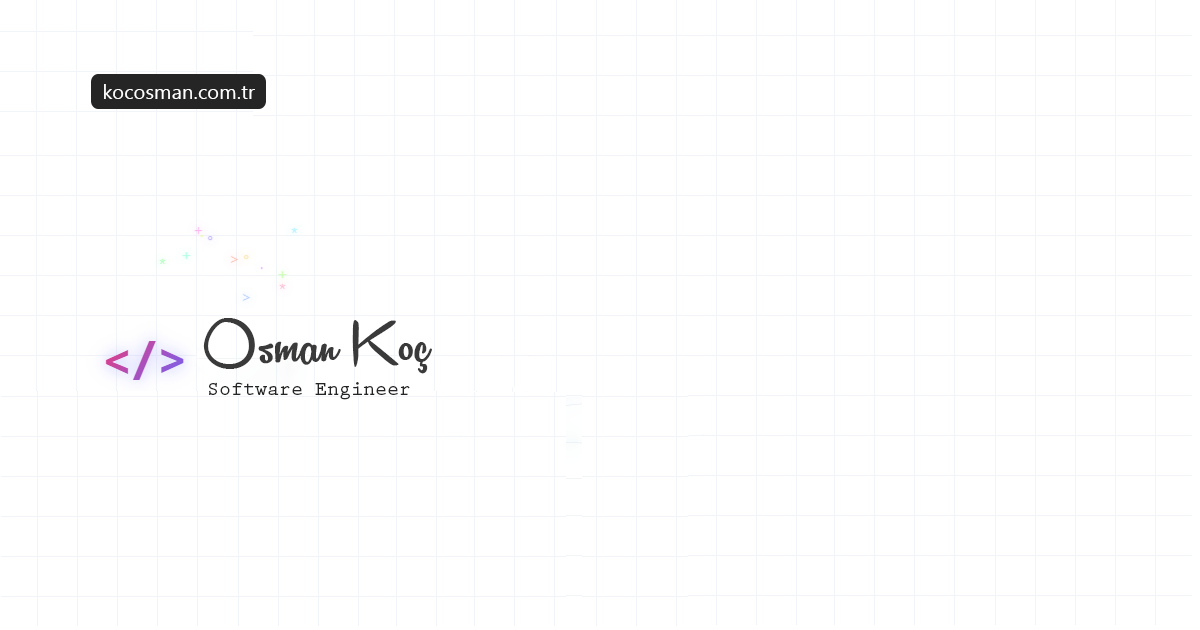
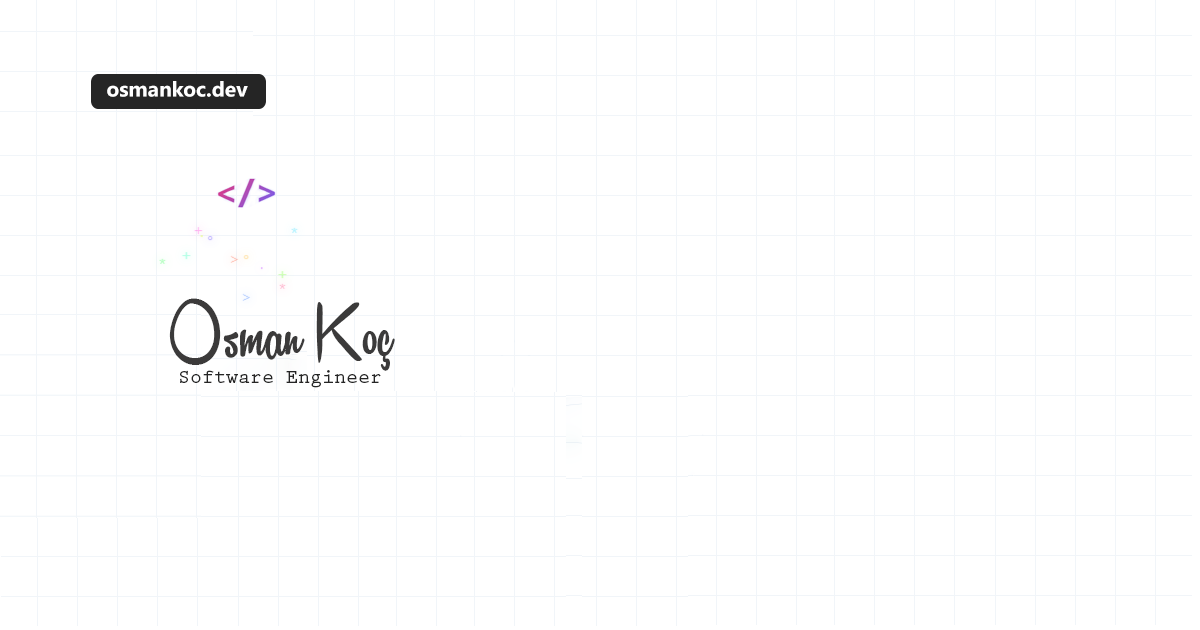
feat: change site url & modify shared-metadata and og-image & upgrade version

Changed region(s): [[0.0925, 0.4524, 0.37, 0.6333], [0.0925, 0.1206, 0.2158, 0.181], [0.185, 0.2714, 0.2467, 0.3317]]

diff --git a/lib/shared-metadata.ts b/lib/shared-metadata.ts
@@ -1,18 +1,23 @@
+const _title = 'Osman KOÇ - Software Engineer | Portfolio & Blog';
+const _description = 'I develop web-based applications professionally. I also develop mobile applications and open source software for hobby purposes. You can review what is published on GitHub, Google Play Store and AppStore.';
+const _keywords = ['Osman KOÇ', 'Osman Koc', 'osmankoc', 'osmkoc', 'kocosman', 'koc osman', 'dev', 'developer', 'kocosm', 'blog', 'medium'];
+const _url = 'https://osmankoc.dev';
+
 export const sharedMetadata = {
-    title: 'Osman Koç - Software Engineer | Portfolio & Blog',
-    description: 'I develop web-based corporate applications professionally and I also work on developing web and mobile applications and projects personally. You can use the applications published on Google Play Store and AppStore.',
-    keywords: ['Osman Koç', 'Osman Koc', 'osmkoc', 'kocosman', 'koc osman', 'developer', 'kocosm', 'blog', 'personal website'],
+    title: _title,
+    description: _description,
+    keywords: _keywords,
     openGraph: {
-      title: 'Osman Koç',
-      description: 'Software Engineer, and writer, based in Turkey',
-      url: 'https://kocosman.com.tr',
-      siteName: 'Osman Koç - Software Engineer | Portfolio & Blog',
+      title: _title,
+      description: _description,
+      url: _url,
+      siteName: _title,
       images: [
         {
           url: '/og-image.png',
           width: 1200,
           height: 630,
-          alt: 'Osman Koç - Software Engineer | Portfolio & Blog',
+          alt: _title,
           type: 'image/png',
         },
       ],
@@ -21,8 +26,8 @@ export const sharedMetadata = {
     },
     twitter: {
       card: 'summary_large_image',
-      title: 'Osman Koç',
-      description: 'Software Engineer, and writer, based in Turkey',
+      title: _title,
+      description: _description,
       images: ['/og-image.png'],
     },
   };

diff --git a/lib/projects.ts b/lib/projects.ts
@@ -3,9 +3,9 @@ import { type Project } from "@/types/project";
 export const projects: Project[] = [
   {
     title: "Personal Website",
-    description: "kocosman.com.tr - Built with Next.js, TypeScript, and Tailwind CSS",
+    description: "osmankoc.dev - Built with Next.js, TypeScript, and Tailwind CSS",
     image: "https://osmkoc.com/wp-content/uploads/2024/11/osmkoc_newss.jpg",
-    demoUrl: "https://kocosman.com.tr",
+    demoUrl: "https://osmankoc.dev",
     sourceUrl: "https://github.com/osman-koc/my-web-site"
   },
   {
